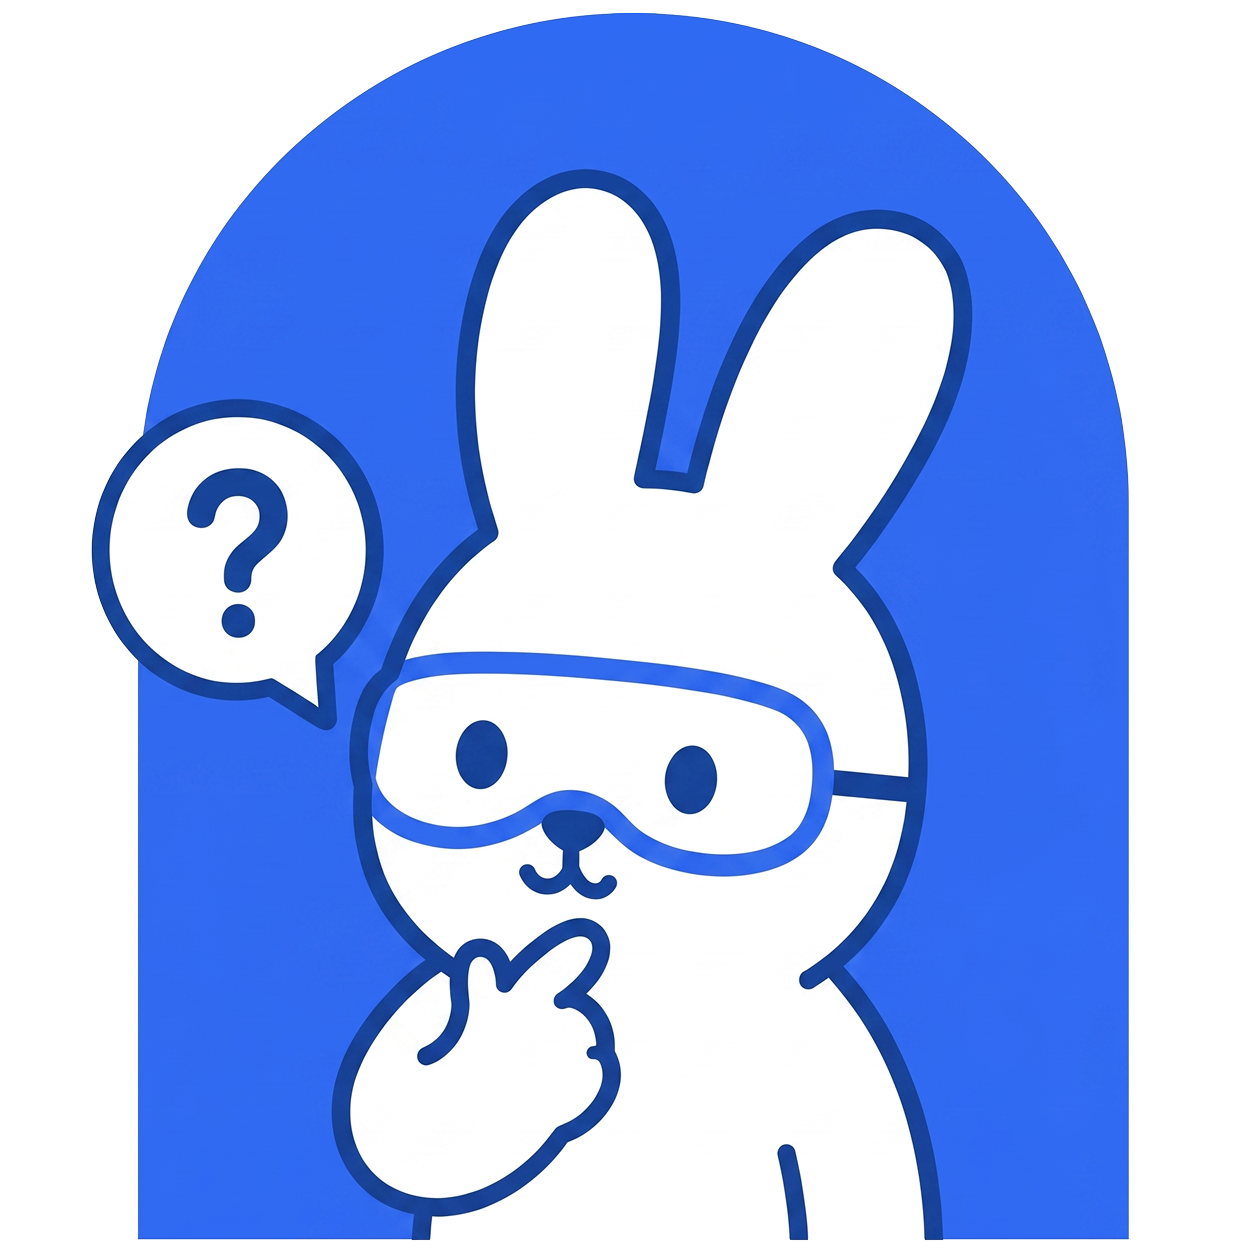
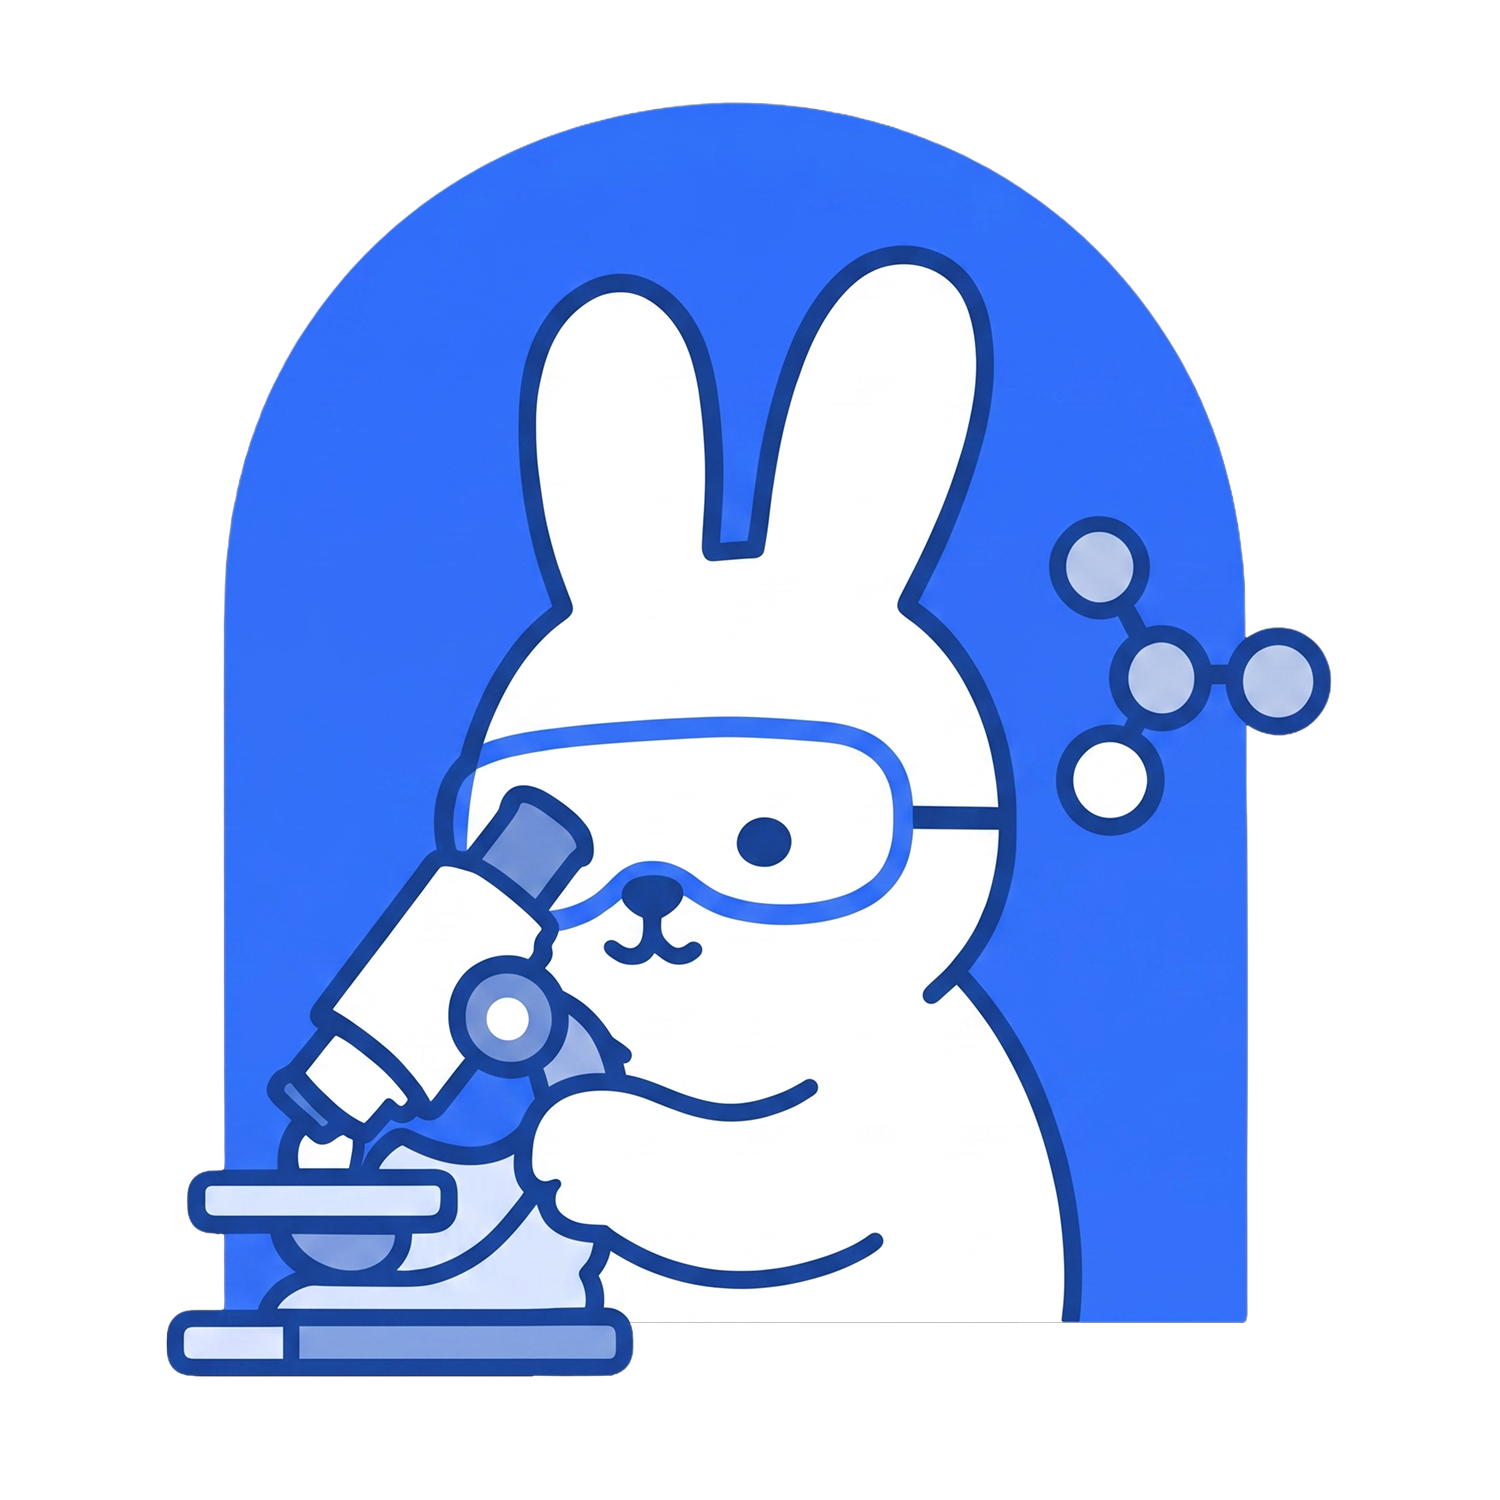
feat :: 실습 온보딩 시작 모달(STEP0) 추가 → 마스코트 이미지 및 안내 문구

diff --git a/src/components/lab/OnboardingStartModal.tsx b/src/components/lab/OnboardingStartModal.tsx
@@ -1,0 +1,87 @@
+import microscopePng from "@/assets/mascot/labit_microscope.png";
+import { guideCardBorderStyle } from "@/components/lab/guideCardStyle";
+
+interface OnboardingStartModalProps {
+  onClose: () => void;
+  onNext: () => void;
+}
+
+export default function OnboardingStartModal({ onClose, onNext }: OnboardingStartModalProps) {
+  return (
+    <div
+      style={{
+        position: "fixed", inset: 0, zIndex: 1000,
+        background: "var(--color-bg-overlay)",
+        display: "flex", alignItems: "center", justifyContent: "center",
+      }}
+      onClick={onClose}
+    >
+      <div
+        style={{
+          boxSizing: "border-box",
+          display: "flex", flexDirection: "column", alignItems: "center",
+          padding: 24, gap: 24,
+          width: 400,
+          borderRadius: 12,
+          ...guideCardBorderStyle,
+        }}
+        onClick={(e) => e.stopPropagation()}
+      >
+        {/* Close button */}
+        <div style={{ display: "flex", justifyContent: "flex-end", alignItems: "center", width: "100%", height: 24 }}>
+          <button
+            type="button"
+            onClick={onClose}
+            style={{ display: "flex", alignItems: "center", justifyContent: "center", width: 24, height: 24, background: "none", border: "none", cursor: "pointer", padding: 0 }}
+          >
+            <svg width="14" height="14" viewBox="0 0 14 14" fill="none">
+              <path d="M13 1L1 13M1 1L13 13" stroke="var(--color-text-normal)" strokeWidth="1.8" strokeLinecap="round" />
+            </svg>
+          </button>
+        </div>
+
+        {/* Mascot */}
+        <img src={microscopePng} alt="" style={{ width: 140, height: 140, objectFit: "contain" }} />
+
+        {/* Text */}
+        <div style={{ display: "flex", flexDirection: "column", alignItems: "center", gap: 8, width: "100%" }}>
+          <span style={{
+            fontFamily: "var(--font-sans)", fontWeight: 700, fontSize: 20,
+            lineHeight: "26px", textAlign: "center", color: "var(--color-text-strong)",
+          }}>
+            실습을 시작해 볼까요?
+          </span>
+
+          <span style={{
+            fontFamily: "var(--font-sans)", fontWeight: 500, fontSize: 14,
+            lineHeight: "24px", textAlign: "center", letterSpacing: "-0.005em",
+            color: "var(--color-text-normal)",
+          }}>
+            배운 내용을 직접 체험해 보는 시간이에요.<br />
+            <span style={{ color: "var(--color-text-primary)" }}>30초</span>면 사용법을 익힐 수 있어요.
+          </span>
+        </div>
+
+        {/* CTA */}
+        <button
+          type="button"
+          onClick={onNext}
+          style={{
+            display: "flex", flexDirection: "row", justifyContent: "center", alignItems: "center",
+            padding: "12px 20px", gap: 6, width: "100%", height: 46,
+            background: "var(--color-primary-normal)", borderRadius: 12, border: "none",
+            cursor: "pointer",
+          }}
+        >
+          <span style={{ fontFamily: "var(--font-sans)", fontWeight: 600, fontSize: 15, lineHeight: "22px", letterSpacing: "-0.005em", color: "var(--color-static-white)" }}>
+            다음
+          </span>
+          <svg width="16" height="16" viewBox="0 0 24 24" fill="none">
+            <path d="M19 12L5 12" stroke="var(--color-static-white)" strokeWidth="2.5" strokeLinecap="round" strokeLinejoin="round" />
+            <path d="M12 5L19 12L12 19" stroke="var(--color-static-white)" strokeWidth="2.5" strokeLinecap="round" strokeLinejoin="round" />
+          </svg>
+        </button>
+      </div>
+    </div>
+  );
+}
